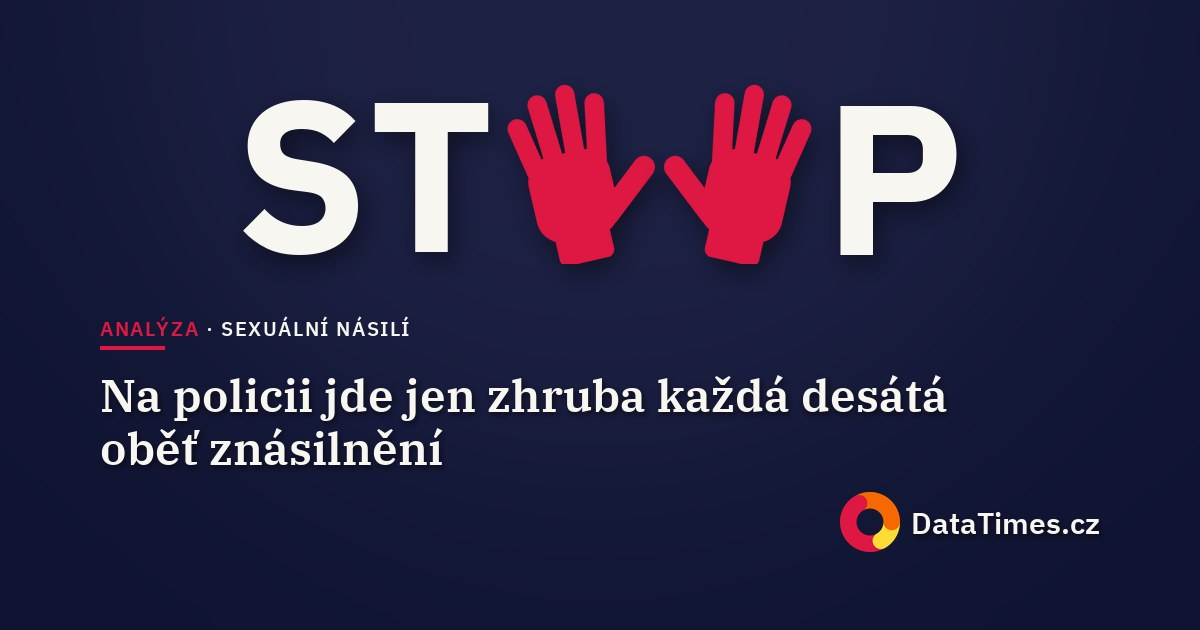
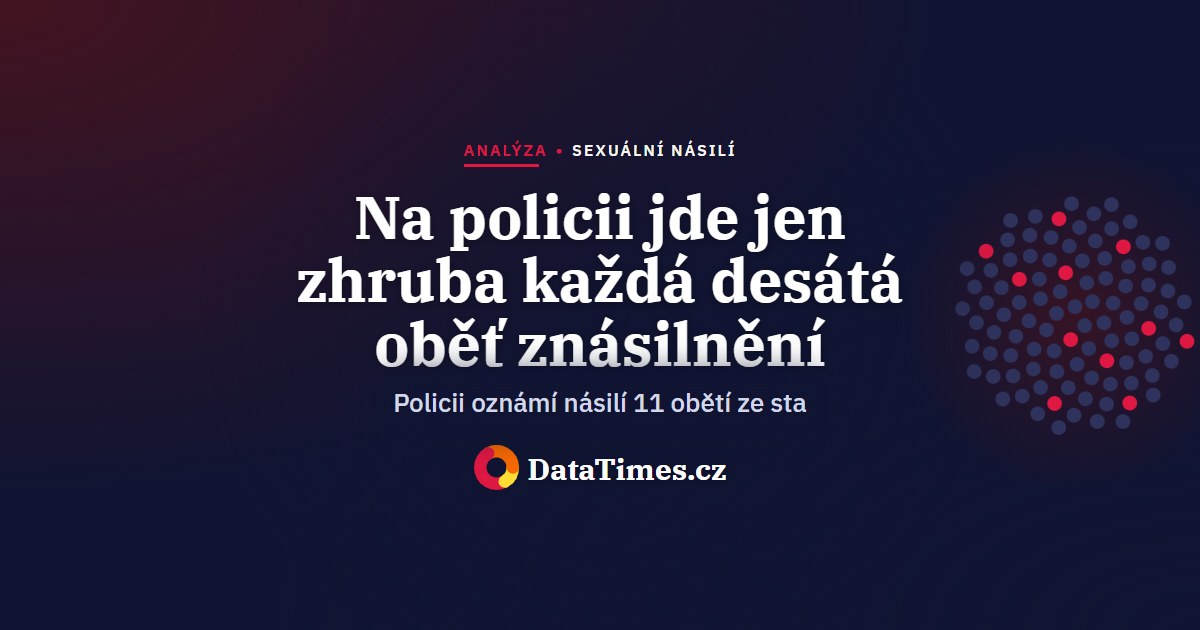
Znásilnění (8. 10.): nový cover – tečková slunečnice (11 ze 100 obětí jde na policii) místo STOP s rukama, sada pěti coverů; ponaučení do COVER-EDITOR.md

Changed region(s): [[0.0, 0.0, 0.8017, 0.7841], [0.8017, 0.3016, 1.0, 0.6937], [0.6783, 0.7841, 0.925, 0.8746]]

diff --git a/tools/COVER-EDITOR.md b/tools/COVER-EDITOR.md
@@ -66,6 +66,11 @@ Nebát se velkých, odvážných kompozic – jen štítek rubriky (x ≥ 950, y
 výsledky predikce, kalkulačka (tečková mapa ČR + ikona), Bolsonaro (obrázek jako motiv).
 
 **Ponaučení z oprav (zapisovat sem, ať se chyby neopakují):**
+- *26. 10. 2026 – dva sousední články se stejným motivem (STOP s dlaní × STOP s rukama).* Než motiv navrhneš,
+  podívej se na covery článků se stejnými tagy (zvlášť ty, které se ukážou v related boxu vedle sebe). Stejný
+  nápad dvakrát v řadě karet působí jako duplikát. Starší článek o znásilnění dostal tečkovou slunečnici
+  (100 teček, 11 karmínových = oběti, které šly na policii), vzor
+  `analyza-2026-10-08-znasilneni-nahlasovani-objasnenost-a-tresty/_cover_pipeline/motiv.cjs`.
 - *25. 10. 2026 – fotka jako motiv pod navy závojem (bingo, STOP s dlaní místo „O“).* Podkladová fotka nesmí mít
   viditelný rámeček: okraje maskovat obdélníkem s Gaussovým rozmazáním (`motiv.typ: 'svg'`, vzor
   `analyza-2026-10-21-bingo-domaci-a-sexualni-nasili/_cover_pipeline/motiv.cjs`) a pod světlé partie u okraje

diff --git a/apps/web/app/clanek/_articles/analyza-2026-10-08-znasilneni-nahlasovani-objasnenost-a-tresty/index.md b/apps/web/app/clanek/_articles/analyza-2026-10-08-znasilneni-nahlasovani-objasnenost-a-tresty/index.md
@@ -4,8 +4,11 @@ date: "2026-10-08"
 time: "17:08"
 author: "Kateřina Mahdalová"
 excerpt: "Americký případ Jane Doe z Cornellovy univerzity ukazuje, kolik se toho může ztratit mezi oznámením a soudem. V Česku jde na policii zhruba desetina obětí, objasněnost znásilnění za patnáct let klesla ze 75 na 53 procent a polovina odsouzených odchází s podmínkou."
-coverImage: "images/cover-znasilneni-datatimes.jpg"
+coverImage: "images/cover-homepage.png"
+homepageImage: "images/cover-homepage.png"
 ogImage: "images/cover-og.jpg"
+squareImage: "images/cover-square.png"
+instagramImage: "images/cover-instagram.png"
 coverBg: "brandNavy.9"
 filter: ["analýza"]
 tags: ["spravedlnost", "znásilnění", "sexuální násilí", "justice", "policie", "tresty", "Evropa", "USA", "Cornell"]
